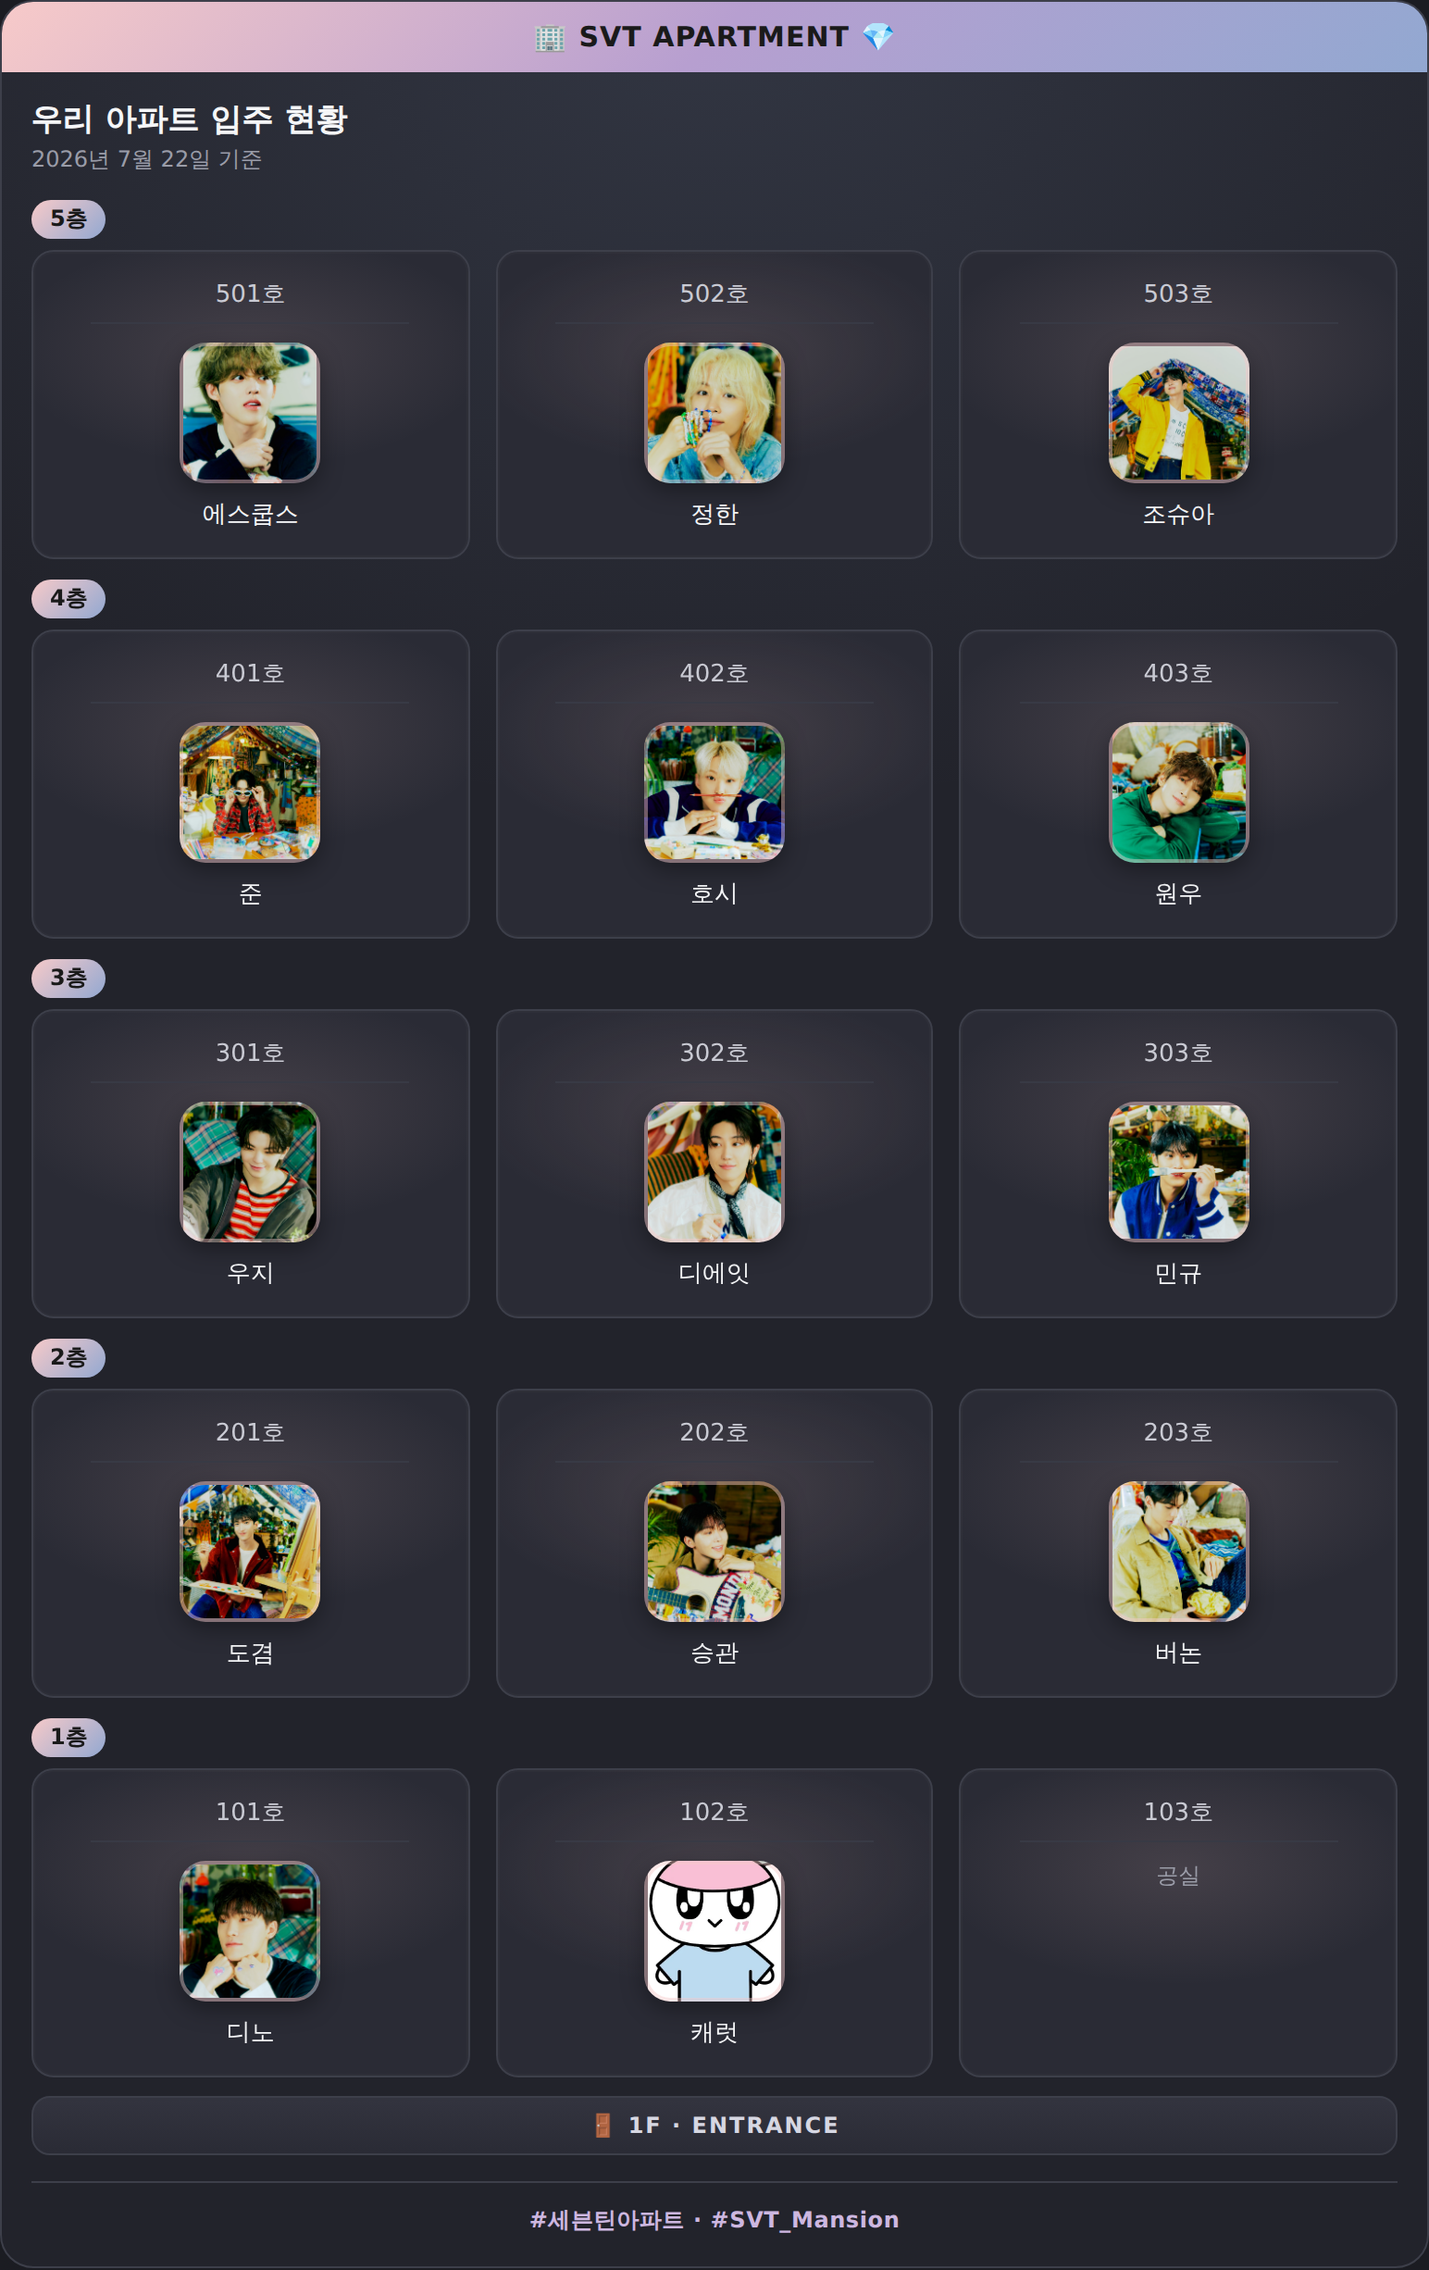
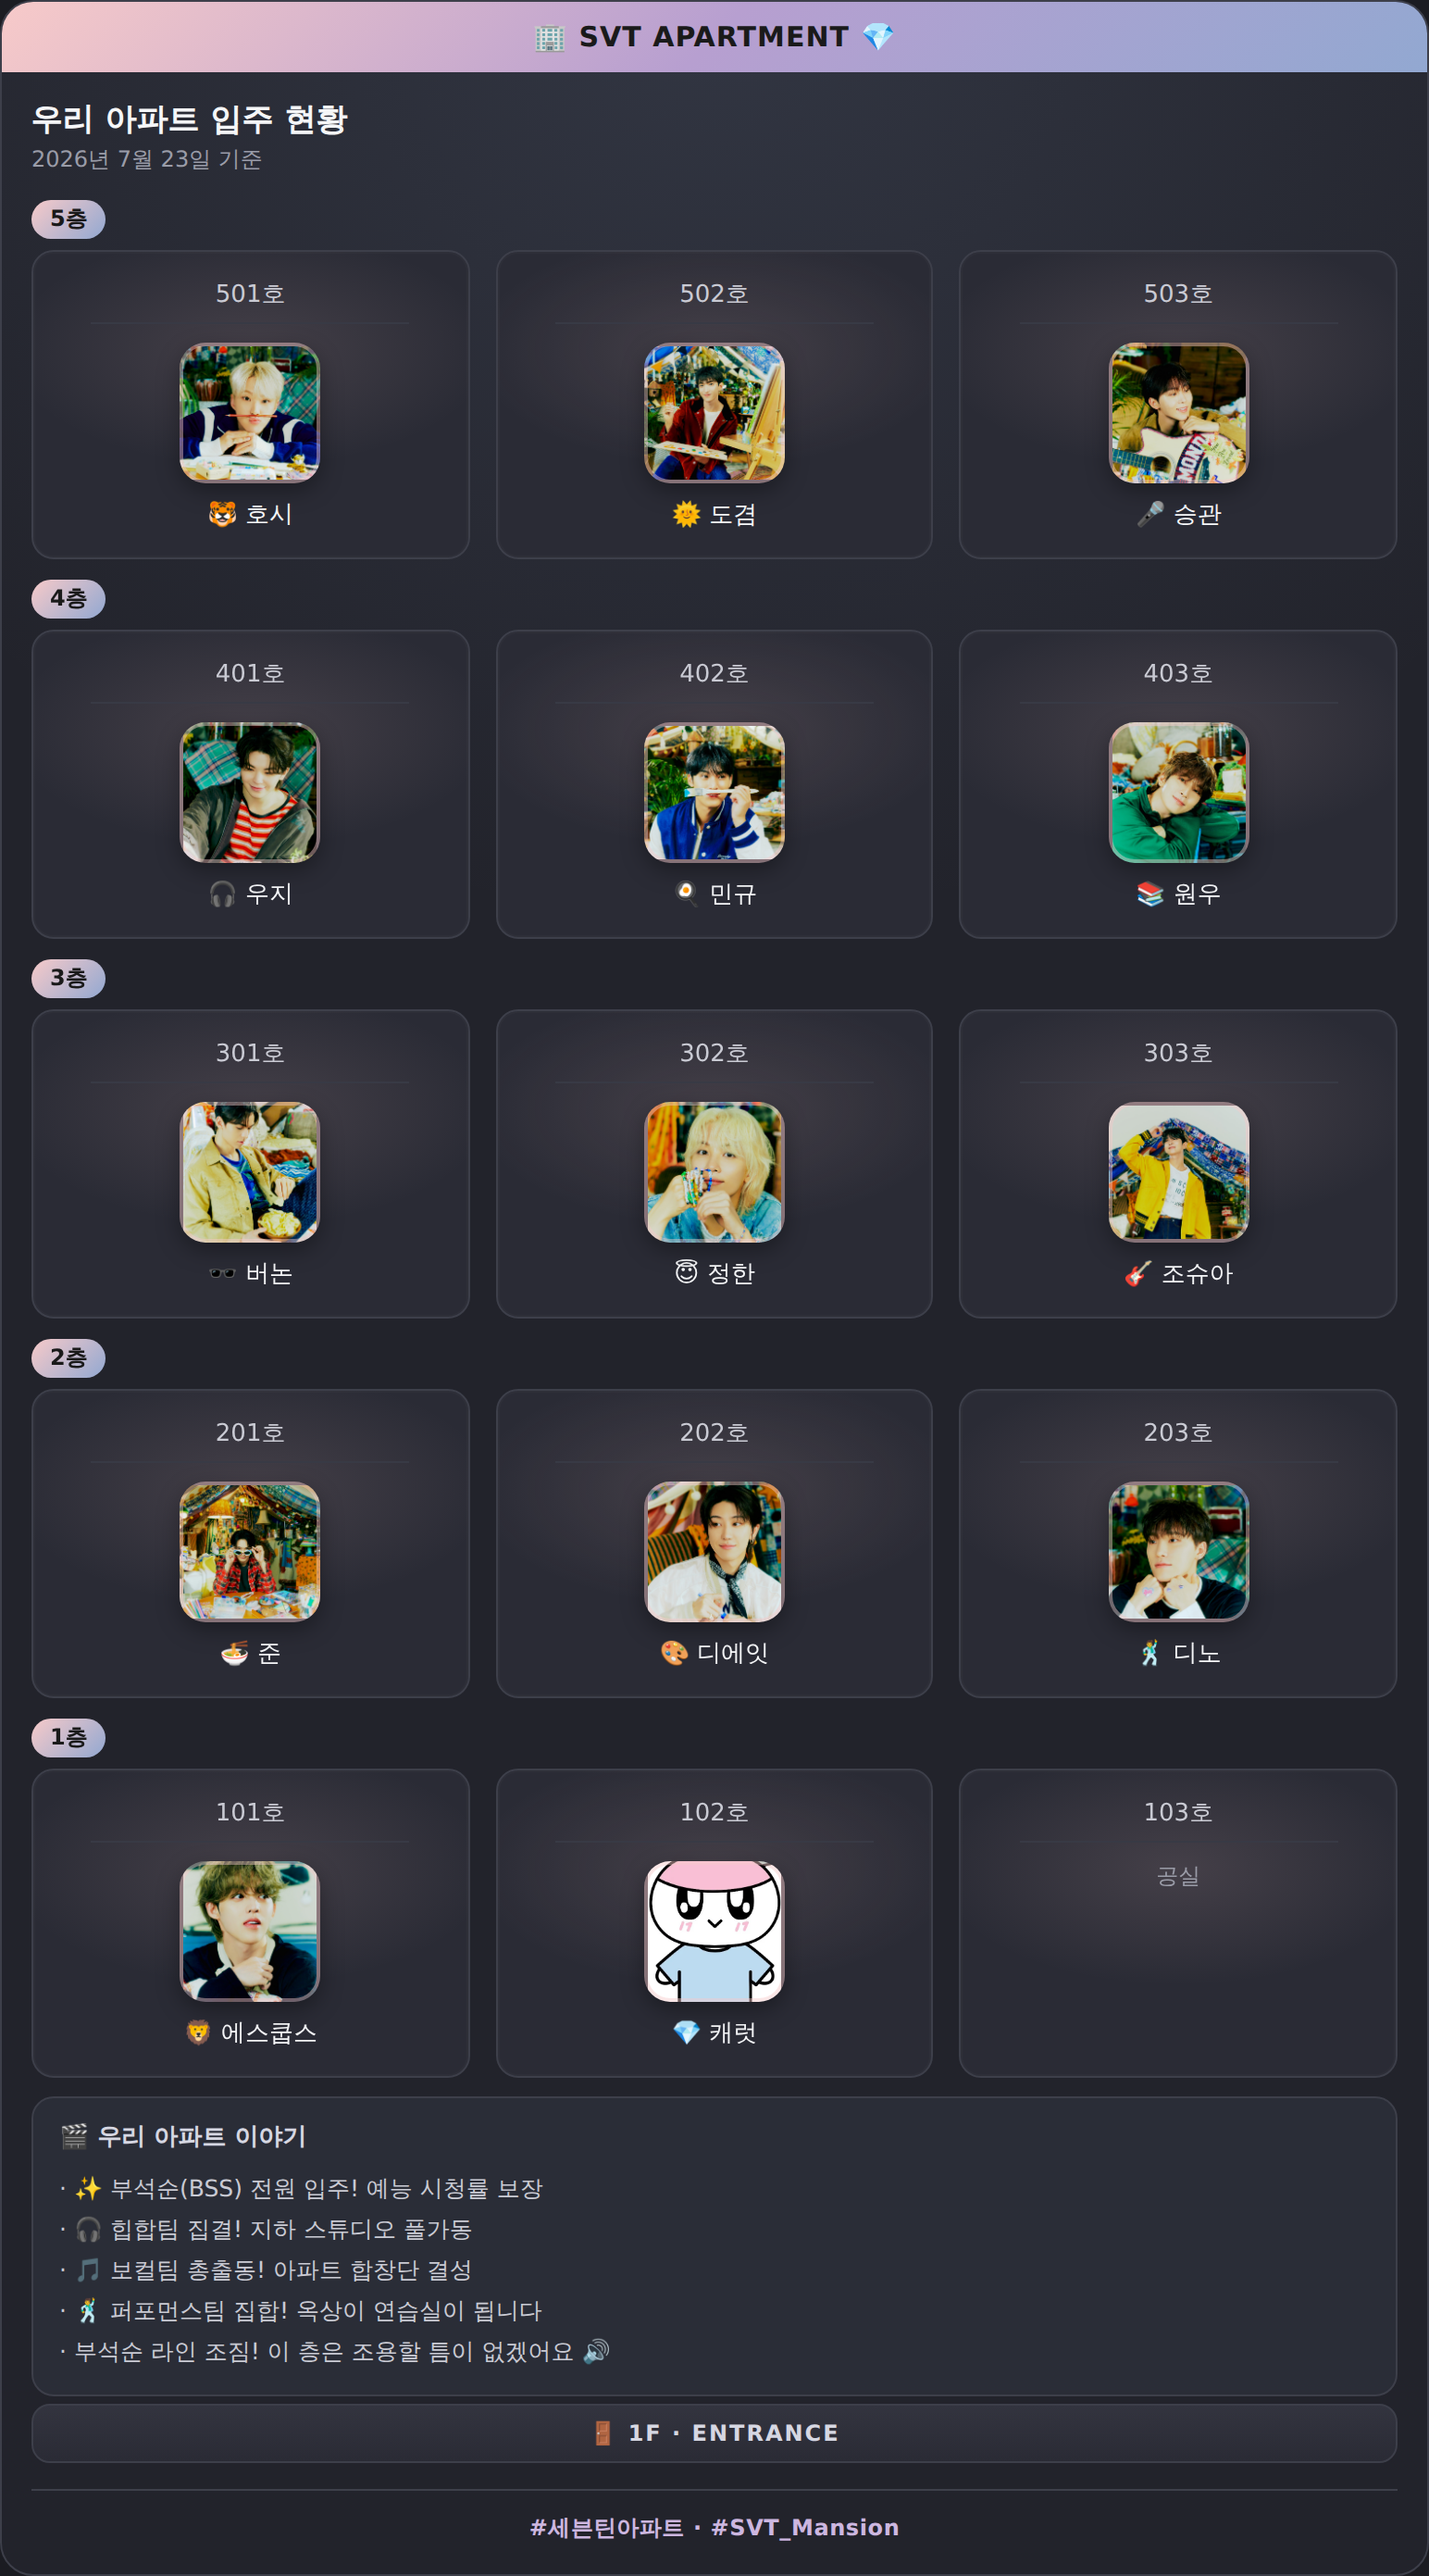
Add personality traits and location-based neighbor events
멤버별 성격(이모지+태그)과 위치 기반 이웃 이벤트를 추가해 결과 카드에
"🎬 우리 아파트 이야기" 섹션을 생성 (초기 A 진단의 '결과 떡밥/이웃 미활용' 보강).

- TRAITS: 멤버 성격 이모지 → 결과 카드 이름에 배지 표시
- generateEvents(): 같은 층 좌우 + 위아래 라인 인접 분석
  - 이웃 케미(조합) / 개인 특성(이웃 존재 시) / 그룹 전원(부석순·유닛)
  - 우선순위 그룹>케미>개인, 최대 5개
- 결과 카드에 이벤트 섹션 렌더 → 저장/공유 이미지에도 포함
- 실물 html2canvas 렌더 + 회귀(자동저장/복원/초기화/스로틀) 검증
- README 기능표·CHANGELOG·미리보기 이미지 갱신

Claude-Session: https://claude.ai/code/session_01EWYYFStorAgKbjfY3kz4mX

diff --git a/index.html b/index.html
@@ -407,6 +407,28 @@
       color: var(--text-dim);
     }
 
+    /* 이웃 이벤트 섹션 */
+    .preview-events {
+      margin: 6px 16px 0;
+      padding: 12px 14px;
+      background: rgba(146, 168, 209, 0.08);
+      border: 1px solid var(--pv-border);
+      border-radius: 12px;
+    }
+
+    .preview-events-title {
+      font-size: 13px;
+      font-weight: 700;
+      color: #d6d7e2;
+      margin-bottom: 8px;
+    }
+
+    .preview-event-item {
+      font-size: 12.5px;
+      color: var(--text-muted);
+      line-height: 1.75;
+    }
+
     /* 1층 출입구 */
     .preview-entrance {
       margin: 4px 16px 0;
@@ -475,6 +497,7 @@
       <div class="preview-title">우리 아파트 입주 현황</div>
       <div class="preview-date" id="previewDate"></div>
       <div id="previewContent"></div>
+      <div id="previewEvents" class="preview-events" style="display:none;"></div>
       <div class="preview-entrance">🚪 1F · ENTRANCE</div>
       <div class="preview-footer">#세븐틴아파트 · #SVT_Mansion</div>
     </div>
@@ -790,6 +813,94 @@
     }
 
     // 미리보기 생성
+    // ─────────────────────────────────────────────────────────
+    // 멤버 성격 & 위치 기반 이웃 이벤트 (밝고 긍정적인 공개 이미지 기반, 자유 수정 가능)
+    // ─────────────────────────────────────────────────────────
+    const TRAITS = {
+      "에스쿱스": { emoji: "🦁", tag: "든든한 리더" },
+      "정한":     { emoji: "😇", tag: "천사표 장난꾸러기" },
+      "조슈아":   { emoji: "🎸", tag: "젠틀 매너남" },
+      "준":       { emoji: "🍜", tag: "요리하는 4차원" },
+      "호시":     { emoji: "🐯", tag: "텐션 폭발 안무장인" },
+      "원우":     { emoji: "📚", tag: "조용한 독서가" },
+      "우지":     { emoji: "🎧", tag: "밤샘 작곡가" },
+      "디에잇":   { emoji: "🎨", tag: "감성 예술가" },
+      "민규":     { emoji: "🍳", tag: "살림꾼 비주얼" },
+      "도겸":     { emoji: "🌞", tag: "비타민 미소" },
+      "승관":     { emoji: "🎤", tag: "복도의 예능인" },
+      "버논":     { emoji: "🕶", tag: "자유로운 힙합러" },
+      "디노":     { emoji: "🕺", tag: "열정 막내" },
+      "캐럿":     { emoji: "💎", tag: "우리 이웃 캐럿" }
+    };
+
+    // 이웃 케미 (두 멤버가 인접 시 발동, 순서 무관)
+    const PAIR_EVENTS = [
+      { m: ["호시", "도겸"],   text: "부석순 라인 조짐! 이 층은 조용할 틈이 없겠어요 🔊" },
+      { m: ["호시", "승관"],   text: "호시·승관 옆집, 복도가 곧 무대가 됩니다 🎤" },
+      { m: ["도겸", "승관"],   text: "도겸·승관 듀엣, 벽 너머로 라이브가 들려와요 🎶" },
+      { m: ["민규", "우지"],   text: "밤샘하는 우지에게 민규가 야식 배달 🍳🎧" },
+      { m: ["원우", "버논"],   text: "원우·버논, 밤새 게임과 음악 소리가 새어나와요 🎮" },
+      { m: ["정한", "조슈아"], text: "정한·조슈아, 옆집끼리 알콩달콩 장난 😇🎸" },
+      { m: ["준", "디에잇"],   text: "준·디에잇, 예술과 요리의 살롱이 열립니다 🍜🎨" },
+      { m: ["에스쿱스", "디노"], text: "리더와 막내가 이웃! 든든한 사제 라인 🦁🕺" },
+      { m: ["민규", "도겸"],   text: "민규 집밥 + 도겸 미소 = 이 층 분위기 담당 🌞" }
+    ];
+
+    // 이웃이 하나라도 있으면 발동 (개인 특성)
+    const SOLO_EVENTS = {
+      "우지": "옆집에서 밤새 비트가… 우지 작업실 가동 중 🎧",
+      "민규": "이웃집에 민규표 집밥 냄새가 솔솔 🍳",
+      "승관": "승관 사는 라인은 매일이 예능 현장 🎤",
+      "호시": "새벽마다 안무 연습 소리, 호시가 옆집이군요 🐯",
+      "정한": "정한의 장난 초인종에 오늘도 옆집이 당했다 😇"
+    };
+
+    // 그룹 전원 배치 시 발동 (위치 무관)
+    const GROUP_EVENTS = [
+      { m: ["호시", "도겸", "승관"], text: "✨ 부석순(BSS) 전원 입주! 예능 시청률 보장" },
+      { m: ["에스쿱스", "원우", "민규", "버논"], text: "🎧 힙합팀 집결! 지하 스튜디오 풀가동" },
+      { m: ["정한", "조슈아", "우지", "도겸", "승관"], text: "🎵 보컬팀 총출동! 아파트 합창단 결성" },
+      { m: ["준", "호시", "디에잇", "디노"], text: "🕺 퍼포먼스팀 집합! 옥상이 연습실이 됩니다" }
+    ];
+
+    // 배치 결과 → 위치 기반 이벤트 목록 (우선순위: 그룹 > 이웃 케미 > 개인, 최대 5개)
+    function generateEvents(results) {
+      const placed = new Set(
+        results.filter(r => r.resident && r.resident !== "공실").map(r => r.resident)
+      );
+      const map = {};
+      results.forEach(r => {
+        if (r.resident && r.resident !== "공실") map[r.floor + "-" + r.unit] = r.resident;
+      });
+
+      // 인접 쌍 수집: 같은 층 좌우 + 같은 라인 위아래
+      const adjPairs = new Set();
+      const hasNeighbor = new Set();
+      const connect = (a, b) => {
+        if (!a || !b) return;
+        hasNeighbor.add(a); hasNeighbor.add(b);
+        adjPairs.add([a, b].sort().join("|"));
+      };
+      for (let f = 1; f <= FLOORS; f++) {
+        for (let u = 1; u <= 3; u++) {
+          const cur = map[f + "-" + u];
+          if (!cur) continue;
+          if (u < 3) connect(cur, map[f + "-" + (u + 1)]);
+          if (f < FLOORS) connect(cur, map[(f + 1) + "-" + u]);
+        }
+      }
+
+      const events = [];
+      const seen = new Set();
+      const push = (t) => { if (t && !seen.has(t)) { seen.add(t); events.push(t); } };
+
+      GROUP_EVENTS.forEach(g => { if (g.m.every(x => placed.has(x))) push(g.text); });
+      PAIR_EVENTS.forEach(p => { if (adjPairs.has([...p.m].sort().join("|"))) push(p.text); });
+      Object.keys(SOLO_EVENTS).forEach(m => { if (hasNeighbor.has(m)) push(SOLO_EVENTS[m]); });
+
+      return events.slice(0, 5);
+    }
+
     function renderPreview(results) {
       const container = document.getElementById("previewContainer");
       const content = document.getElementById("previewContent");
@@ -851,7 +962,8 @@
 
               const name = document.createElement("div");
               name.className = "preview-unit-name";
-              name.textContent = residentMeta.label;
+              const trait = TRAITS[residentMeta.id];
+              name.textContent = (trait ? trait.emoji + " " : "") + residentMeta.label;
               unitDiv.appendChild(name);
             } else {
               const name = document.createElement("div");
@@ -872,6 +984,20 @@
         floorBlock.appendChild(floorLabel);
         floorBlock.appendChild(grid);
         content.appendChild(floorBlock);
+      }
+
+      // 위치 기반 이웃 이벤트 렌더
+      const evEl = document.getElementById("previewEvents");
+      if (evEl) {
+        const evs = generateEvents(results);
+        if (evs.length) {
+          evEl.style.display = "block";
+          evEl.innerHTML = '<div class="preview-events-title">🎬 우리 아파트 이야기</div>'
+            + evs.map(t => `<div class="preview-event-item">· ${t}</div>`).join("");
+        } else {
+          evEl.style.display = "none";
+          evEl.innerHTML = "";
+        }
       }
 
       // 미리보기가 있을 때만 저장/공유 버튼 노출

diff --git a/CHANGELOG.md b/CHANGELOG.md
@@ -2,6 +2,13 @@
 
 세 페르소나 진단(**A** 재미·공유 / **B** 기술·안정성 / **C** 비주얼)을 기반으로 게임을 개선한 기록입니다. 최신순.
 
+## 4차 — 멤버 성격 & 위치 기반 이웃 이벤트 (A 강화)
+- 초기 A 진단의 미해결 결함("결과에 떡밥이 없음", "이웃 개념 미활용")을 정면으로 보강.
+- **멤버 성격 데이터**(이모지 + 특성 태그) — 결과 카드 이름에 성격 이모지 배지 표시.
+- **위치 기반 이웃 이벤트** — 같은 층 좌우 + 위아래 라인 인접을 분석해 케미 이벤트 생성.
+  - 이웃 케미(특정 조합), 개인 특성(이웃 있으면 발동), 그룹 전원 배치(부석순·유닛) 3종. 우선순위 그룹>케미>개인, 최대 5개.
+- 결과 카드에 **"🎬 우리 아파트 이야기"** 섹션 추가 → 저장/공유 이미지에도 포함(공유 떡밥). 실물 html2canvas 렌더로 검증.
+
 ## 3차 — 공유 이미지 버그 수정 & 로컬 벤더링
 - **저장 이미지 해시태그 푸터 텍스트 누락 버그 수정** (`0792e40`)
   - html2canvas 1.4.1이 그라디언트 글자(`background-clip:text` + `color:transparent`)를 렌더하지 못해, 저장된 이미지에서 `#세븐틴아파트 · #SVT_Mansion`가 보이지 않던 문제.

diff --git a/README.md b/README.md
@@ -29,6 +29,7 @@
 | **저장/복원** | 배치 상태 **localStorage 자동 저장** — 새로고침해도 유지 |
 | **공유** | 결과 카드 **PNG 저장** · 📲 **원탭 공유(Web Share API)** — 미지원 환경에선 저장 + 해시태그 문구 클립보드 복사로 폴백 |
 | **결과 카드** | 아파트 메타포(옥상 사인·층 태그·창문형 유닛·1F 출입구) · 날짜·해시태그 브랜딩 자동 포함 |
+| **이웃 이벤트** | 멤버별 성격 이모지 배지 · **위치 기반 케미 이벤트**(옆집/위아래 라인 인접·그룹 소집) → "🎬 우리 아파트 이야기"로 결과 카드에 자동 생성 |
 | **디자인** | SEVENTEEN 상징색(Rose Quartz·Serenity) 그라디언트 · 통일된 라운드 아바타 · 배치 팝 애니메이션 |
 | **안정성** | 전송 상태 토스트 · html2canvas 로컬 벤더 + CDN 폴백 · 깨진 이미지 폴백 · 접근성(aria/포커스) |
 
